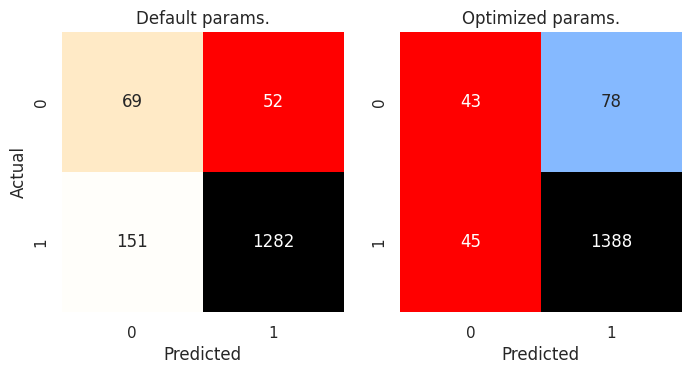
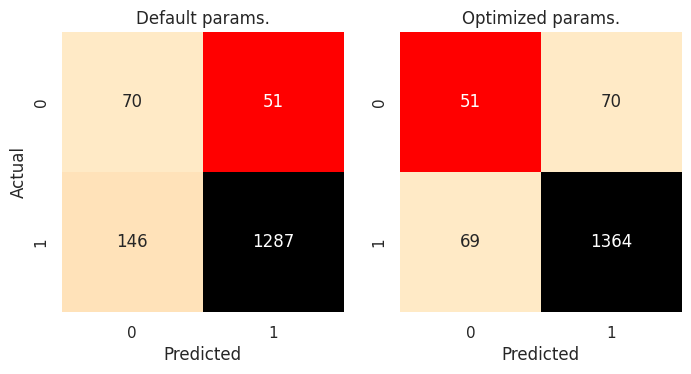
updated readme.

diff --git a/README.MD b/README.MD
@@ -73,17 +73,21 @@ Text vectorization and conversion from word counts to [term frequency-inverse do
 For classification we tried simple logistical regression and random forest classifier -models. To address the imbalanced dataset we tried using balanced class-weights, and undersampling the dataset positive and negative. Without any method to mitigate the imbalance, all models simply labeled every review positive. 
 
 In the confusion matrices we can visually see model accuracies with correctly predicted classes in the matrix diagonal (top-left to bottom-right) and incorrect predictions on the anti-diagonal (bottom-left to top-right).
+
 <img src="readme_assets/ml_models.png" width="700">
+
 Regular logistic regression model with balanced class-weights performs well for such a simple model. Meanwhile, with only class-weight balancing, the random forest classifier fails completely and labels the entire test set as positive.
 The undersampling random forest classifiers give better results but tend to overstate the minority negative class, leading in an increase in false negatives, especially when undersampling only the majority positive class (not.min.)
 
 Originally the logistic regression was included to highlight how simpler models fail with complicated datasets, but in this case it turned out to perform on par or better than the more complex random forest models.
 
-For the undersampling random forest classifier a hyperparameter optimization was performed using [Optuna](https://optuna.org/) and [MLFlow](https://mlflow.org/). The optimized model does improve the results slightly, giving less false negatives than with the default parameters, but there is no major difference between the results.
-
 <img src="readme_assets/ml_models_optimized.png" width="700">
+For the undersampling random forest classifier a hyperparameter optimization was performed using [Optuna](https://optuna.org/) and [MLFlow](https://mlflow.org/). The parameters selected for the optimization were number of estimators (_n\_estimators_), number of features to consider when splitting a node (_max\_features_), and the minimum impurity decrease when splitting a node (_min_impurity_decrease_), with target being to maximize model _accuracy_, _precision_, and _recall_. The optimized model does improve the results slightly, giving less false negatives than with the default parameters, but there is no major difference between the results.
 
-A simple neural-net based classifier was also tried using PyTorch, but the performance was similar with the above models.
+
+<img src="readme_assets/mlflow.png" width="700">
+Inspecting the results from individual optimization runs gives us insight to how each parameter affects the model results. We can immediately see the inverse relation with precision and recall, and that the model accuracy correlates with the recall value. The former indicates that the parameters mostly shift the predictions towards the positive or negative class without much overall improvement. The latter is simply an artifact of the strong class imbalance in our dataset. We can also see the grouping of results by the amount of features the model considers. High amount of features (_None_) pushes the model to prefer negative predictions, low amount of features (_log2_) to prefer positive predictions.
+The amount of estimators did not have any systematic effect on the model outcome, and has been omitted from the plot. The impurity decrease value also has only negligible effect to the model.
 
 <img src="readme_assets/reviews_shap.png" width="700">
 The contributions of different words to the model prediction can be analysed using [SHAP](https://shap.readthedocs.io/en/latest/index.html).
